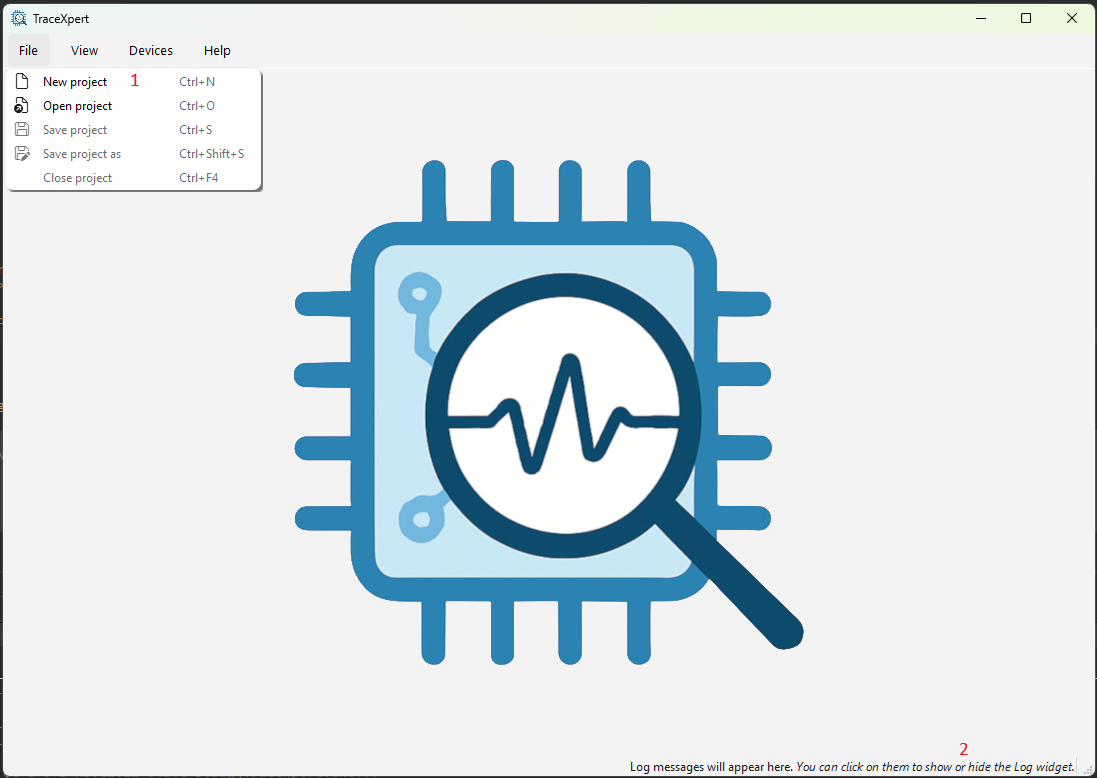
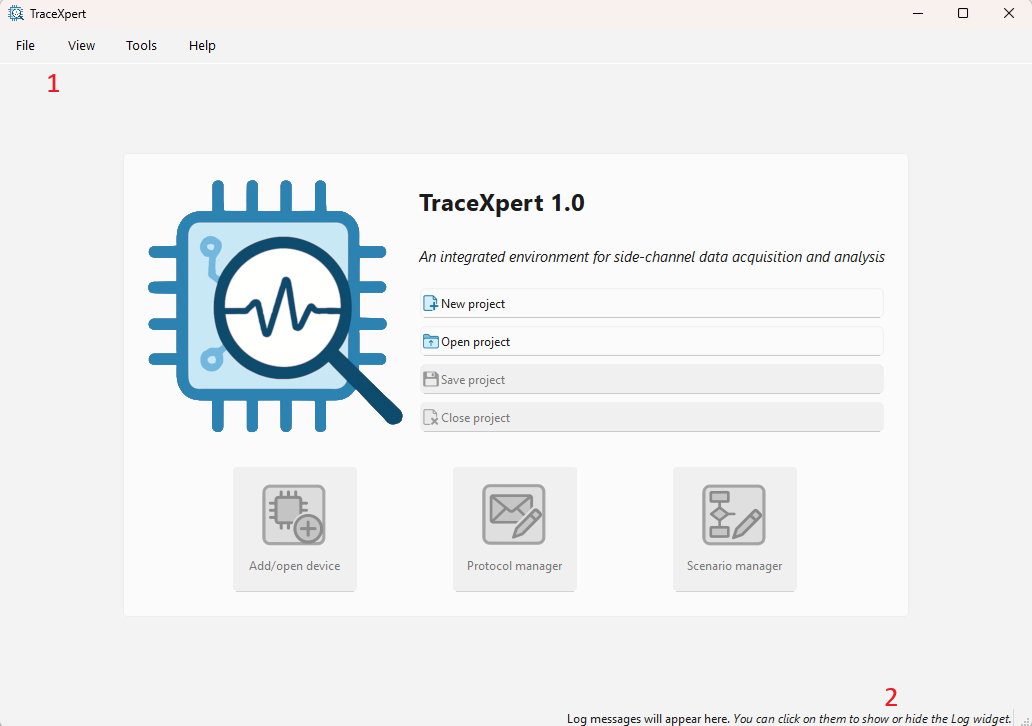
docs update

diff --git a/docs/hdf.md b/docs/hdf.md
@@ -1,0 +1,99 @@
+[Back to the top (index)](README.md)
+
+# HDF5 import/export
+
+TraceXpert 1.0 supports import and export to HDF5 files. Currently, following operations are supported:
+
+- Creating new, or opening an existing HDF5 file, examining and altering its structure
+- Exporting data received from an I/O device or from Analytical device
+- Importing data from a file and sending it to an I/O device or an Analytical device
+- Exporting power traces measured using an Oscilloscope device
+
+The export/import is offered in the respective widgets as well as in a Scenario.
+
+## Creating/opening a HDF file
+
+When exporting/importing from a widget, a wizard opens leading you through the process, allowing to open or create a file.
+
+However, when using a scenario (which is naturally non-interactive), a HDF file and appropriate datasets must be created beforehand. This can be done by selecting *Tools > Create/open HDF file*.
+
+![HDF5 file manager](images/hdf-create-open.png)
+
+The following example shows a creation of a new dataset, intended for storing AES plaintext:
+
+- Rank 2 (two-dimensional dataset)
+- Initial dimensions 0,16 (empty dataset)
+- Maximum dimensions unlimited,16 (blocks of plaintext will be appended along dim 0)
+- Chunks dimesions 16,16 (so that 16 plaintexts/rows will ocuppy a single HDF chunk)
+- Type uint8
+- Deflate on, level 8 (compression is handled completely transparently)
+
+For more information about individual parameters of the dataset, please refer to the HDF docs.
+
+![Creating new dataset](images/hdf-new-dataset.png)
+
+Furthermore, the datasets may be organized in groups. Various official or third-party tools are available for manipulation with HDF5 files.
+
+## Exporting data from I/O or Analytical devices
+
+When exporting data, a wizard opens, leading you through the export process.
+
+![Export data](images/hdf-export-data.png)
+
+All the received data (unless cleared from the widget) or only its part can be exported.
+
+The data must be typed (keep uint8 when unsure), and may further be shaped into a rank-2 matrix.
+
+![Create a compatible dataset](images/hdf-export-create-compatible.png)
+
+In the next step, a compatible dataset must be selected (correct datatype, columns count). 
+
+When no dataset is available, it may be created manually (New dataset). **Appropriate values are prefilled when New dataset is pressed, so that the dataset is compatible with previously defined values).** 
+
+When the Next button is pressed and no compatible dataset is selected, the wizard offers to create one automatically. This is equivalent with selecting New dataset and confirming the dialog with no changes.
+
+## Importing data
+
+Similarly, when importing data, a dataset is selected and a range of data may be imported.
+
+![Importing data](images/hdf-import-data.png)
+
+## Exporting power traces
+
+Measured traces may be exported directly from the Oscilloscope widget as well.
+
+![Export traces](images/hdf-export-traces.png)
+
+After selecting channels and traces to export, compatible datasets must be selected for each channel.
+The exported channel requires a dataset with the correct datatype and columns=samples, so that each trace is represented as a row. 
+
+Furthermore, metadata group is required for each channel. This group contains information about the measured traces. Each export appends:
+- Index of the first appended trace (first_trace dataset)
+- Number of exported traces (trace_count dataset)
+- Timestamp of the export (timestamp dataset)
+- Settings of the oscilloscope (settings dataset)
+
+Compatible datasets for the traces may be created using *New dataset...* button with compatible values prefilled in the dialog. Simialarly, a compatible metadata group and its datasets may be created using *Create metedata group...* button.
+
+When the *Append* button is pressed and there are errors in the selected datasets, the wizard offers to create compatible datasets (once again, this is equivalent to confirming default values in the aformentioned Create actions).
+
+![Export traces - datasets](images/hdf-export-traces-dataset.png)
+
+## Scenarios
+
+When a scenario with components is run (I/O devices, Analytical devices, Oscilloscopes), their respective widgets are responsive and retain the send/received data. Therefore, the import/export may be done manually.
+
+Furthermore, there are import/export blocks available in the scenarios. Given the non-interactive nature of the scenarios, only limited capabilities are offered in these blocks. An existing and valid dataset must be selected for both import/export, and its compatibility is validated prior to the scenario launch.
+
+### Export block
+
+The export block may be fed with bytes of data, regardless of the selected data type or shape of the dataset. The data is cached by TraceXpert and written to the HDF file once the cache threshold is met, or after the scenario finishes. For rank-2 datasets, only complete rows are appended to the dataset.
+
+Warning: when the scenario finishes and an invalid amount of data was submitted to the block (incomplete elements, incomplete dataset row, etc.), the incomplete data will not be written to the file. In such case, an error is raised by the scenario block.
+
+### Import block
+
+The import block allows a byte-oriented read of the dataset. Be careful when reading larger elements (int32, float64, etc.), so an incomplete read wont occur (the block will not raise an error in such case).
+
+The block allows for a **byte offset**, so that the data can be read from any position inside the dataset. When the byte offset is set incorrectly (e.g., it splits an element), a warning is raised by the block. 
+

diff --git a/docs/ui-projects.md b/docs/ui-projects.md
@@ -9,11 +9,11 @@ After launch, a main window opens:
 1. The menu on the top offers basic project management: *New project*, *Open project*, *Save project* and *Save project as*, as well as *Close project*.
 2. The bottom status line shows the latest messages from the TraceXpert log. *Clicking on the status line opens the log.*
 
-After a project is opened/created, [a component and a device may be initialized using Open Device Wizard or using Project Manager](components-devices.md), where working with components is further described.
+After a project is opened/created, [a component and a device may be initialized using Open Device Wizard, Project Manager or from the Welcome screen](components-devices.md).
 
-The [Protocols](protocols.md) manager may be opened by right clicking *Protocols* in the Project Manager.
+The [Protocols](protocols.md) manager may be opened by right clicking *Protocols* in the Project Manager or using the Welcome screen.
 
-The [Scenarios](scenarios.md) manager may be opened by right clicking *Scenarios* in the Project Manager.
+The [Scenarios](scenarios.md) manager may be opened by right clicking *Scenarios* in the Project Manager or using the Welcome screen.
 
 ## Docking
 

diff --git a/docs/gettingstarted.md b/docs/gettingstarted.md
@@ -14,14 +14,20 @@ TraceXpert 1.0 supports both Windows and Linux platforms and is distributed as o
 
 # Installation
 
-...
+On Windows, the TraceXpert may be installed using either online or offline installer. See our [GitHub repository https://github.com/esl-ctu/tracexpert](https://github.com/esl-ctu/tracexpert) for the current release.
 
-# First launch
+On Linux, as of now, the TraceXpert must be built manually. The packages/installers will be made available later, check our [GitHub repository https://github.com/esl-ctu/tracexpert](https://github.com/esl-ctu/tracexpert).
 
-...
+# Where to next
 
-# Next
+For information about the user interface and the component/device architecture of TraceXpert, refer to the following pages:
 
 * [User interface and Projects](ui-projects.md)
 * [Components and Devices](components-devices.md)
+
+Futhermore, usage examples are available:
+
+* [Measurement of data](example-measurement.md)
+* [Correlation power analysis (CPA) attack](example-cpa.md)
+
 
